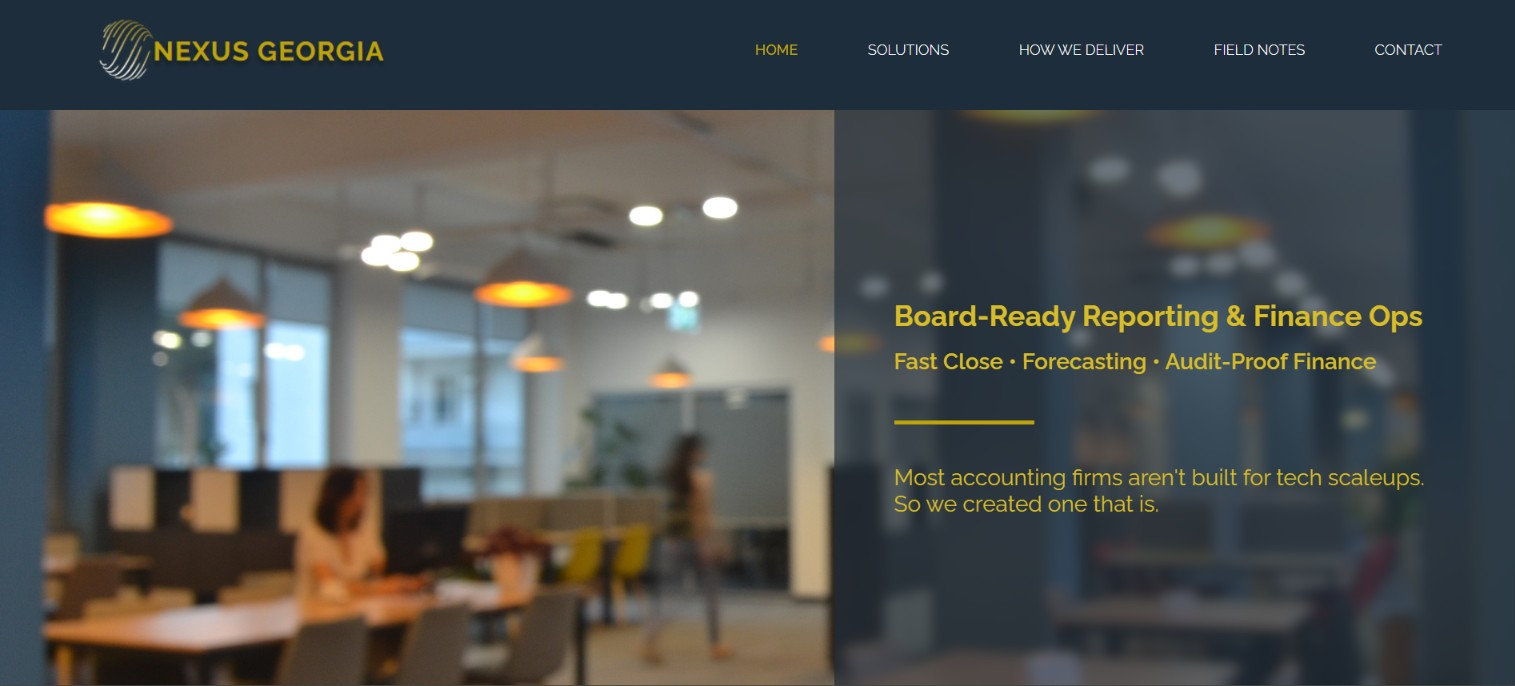
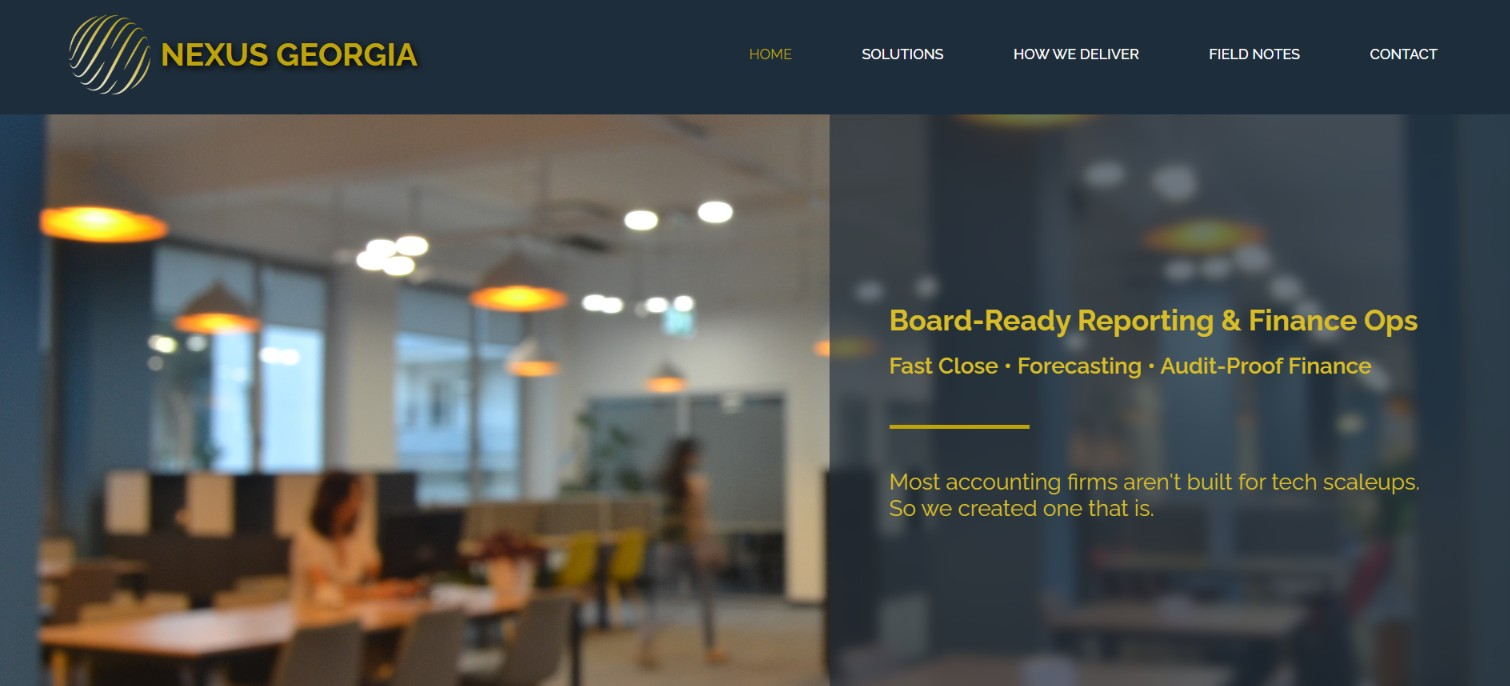
Amend 15

diff --git a/index.html b/index.html
@@ -152,7 +152,7 @@
                     </div>
                     <div class="website-image">
                         <a href="https://okromchedlishvili.github.io/Nexusgeorgia.co/" target="_blank" rel="noopener noreferrer">
-                            <img src="Projects/Company Website/Website.jpg" alt="Website Home" loading="lazy">
+                            <img src="Projects/Company Website/website.jpg" alt="Website Home" loading="lazy">
                         </a>
                     </div>
                 </div>